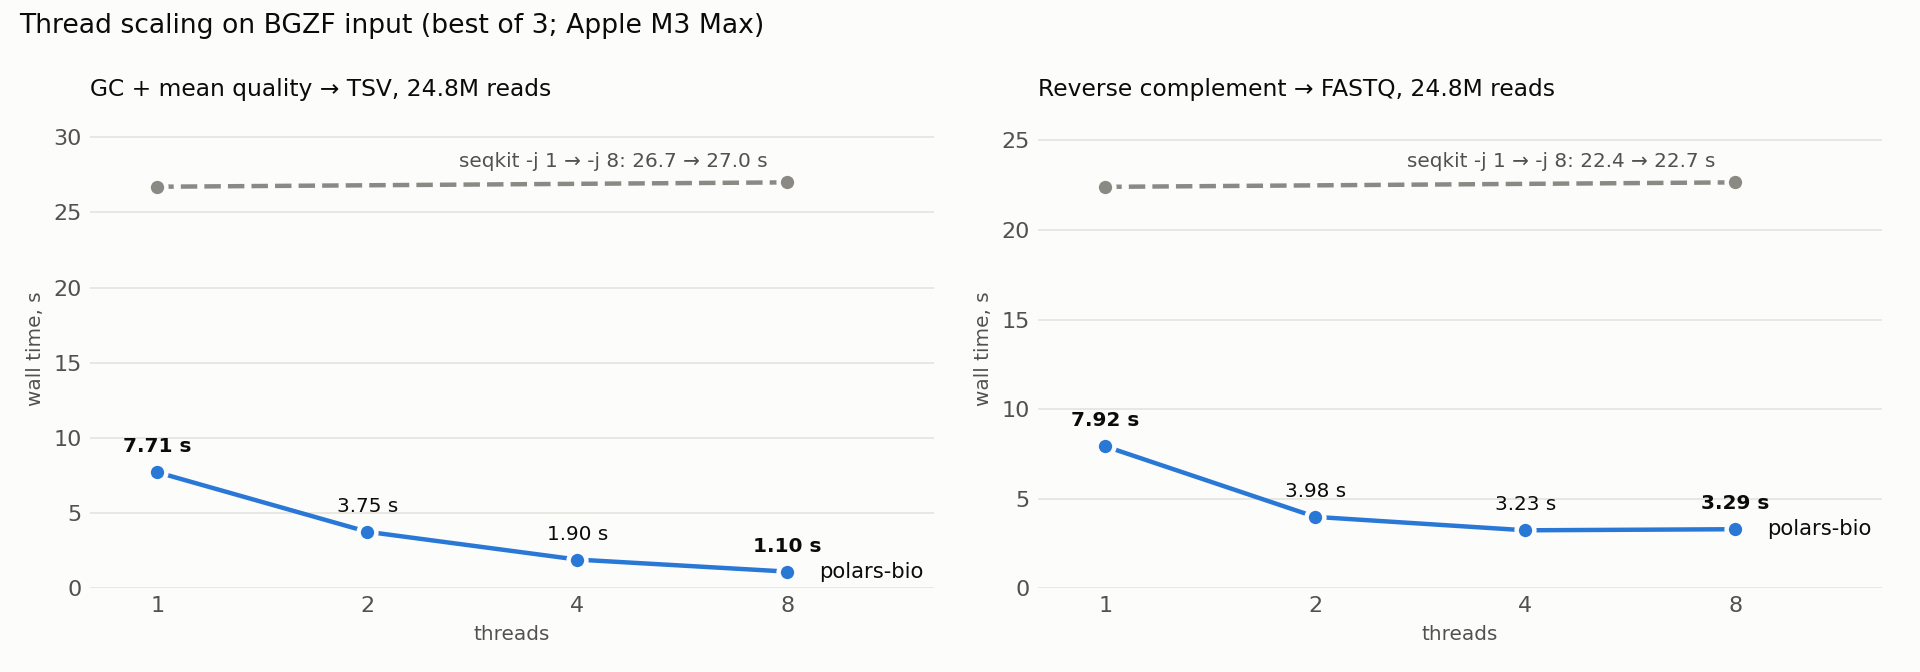
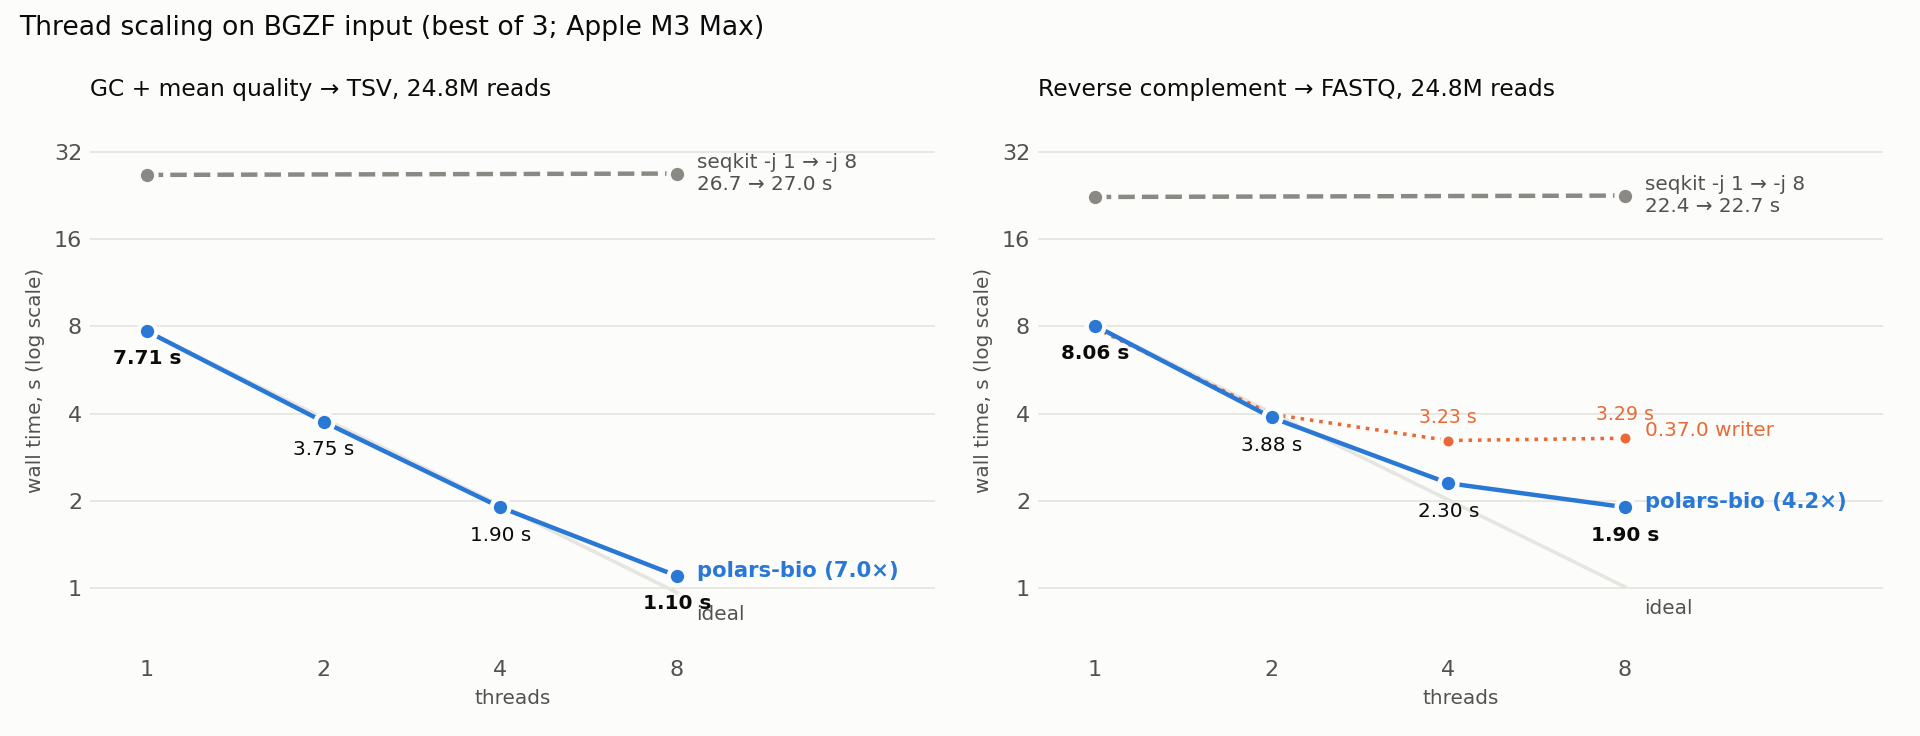
docs(blog): re-measure reverse complement and translation with the #276 writer
Reverse complement → FASTQ now scales 3.5–4.8× on 4.25M+ reads (24.8M reads:
3.29 s → 1.90 s at 8 threads). Updates the 1/2/4/8 table, the one-thread
polars-bio cells, CPU and memory ranges, and redraws the scaling figure on
log axes with an ideal line and the 0.37.0 writer for comparison.

diff --git a/docs/blog/posts/release-0.38.0-sequence-operations.md b/docs/blog/posts/release-0.38.0-sequence-operations.md
@@ -14,8 +14,9 @@ categories:
 polars-bio 0.38.0 adds a `seq` namespace to Polars expressions: reverse
 complement, GC content, translation, mean quality and more, running as native
 Polars plugins. At one thread they are **2.1–3.6× faster than seqkit** on
-FASTQ and 4.2–4.6× faster on translation. At 8 threads on BGZF input, GC
-content and mean quality run **24× faster than seqkit**. All of them match
+FASTQ and 4.3–4.8× faster on translation. At 8 threads on BGZF input, GC
+content and mean quality run **24× faster than seqkit**, and reverse complement
+12× faster. All of them match
 seqkit and Biopython on golden test corpora. The release also
 moves to DataFusion 55.2, makes plain-gzip FASTQ reads about 2× faster, and builds
 the PyPI wheels with fat link-time optimisation: **30% smaller and up to 14% faster**.
@@ -128,7 +129,12 @@ Biopython runs on the three smaller FASTQ files only.
 
 The machine was an Apple M3 Max (16 cores, 64 GB) running macOS 15.7, with
 seqkit 2.14.0, seqtk 1.5, seqfu 1.30.3, Biopython 1.88 and Polars 2.1.0, and a
-fat-LTO build of polars-bio master at the 0.38.0 feature freeze. It wasn't
+fat-LTO build of polars-bio master at the 0.38.0 feature freeze. polars-bio's
+reverse complement and translation runs use the same build plus the faster
+FASTQ and FASTA writer from
+[datafusion-bio-formats#276](https://github.com/biodatageeks/datafusion-bio-formats/pull/276),
+described under [Multiple threads](#multiple-threads); GC + quality writes
+through Polars' own `sink_csv`, which that change doesn't touch. It wasn't
 otherwise idle (3–4.5 of 16 cores busy with background work), but seqkit's
 repeated runs agreed within a few percent.
 
@@ -140,14 +146,14 @@ repeated runs agreed within a few percent.
 
 | Reads | Input | polars-bio | seqkit | seqtk | seqfu | Biopython |
 |---|---|---|---|---|---|---|
-| 0.72M | BGZF | **0.21 / 0.4 / 188** | 0.53 / 0.5 / 138 | 0.63 / 0.6 / 2 | 1.46 / 1.7 / 20 | 1.37 / 1.4 / 50 |
-| | gzip | **0.22 / 0.5 / 166** | 0.47 / 0.5 / 75 | 0.61 / 0.6 / 2 | 1.57 / 1.6 / 14 | 1.31 / 1.3 / 44 |
-| 4.25M | BGZF | **1.65 / 3.1 / 186** | 5.10 / 5.1 / 162 | 4.79 / 4.8 / 2 | 9.12 / 11.5 / 20 | 9.58 / 9.6 / 51 |
-| | gzip | **1.86 / 3.2 / 169** | 4.74 / 4.7 / 75 | 4.87 / 4.8 / 2 | 10.62 / 10.6 / 14 | 9.34 / 9.3 / 46 |
-| 24.8M | BGZF | **7.92 / 12.9 / 251** | 21.97 / 21.9 / 161 | 21.29 / 21.2 / 2 | 47.42 / 57.4 / 20 | 48.28 / 48.0 / 53 |
-| | gzip | **8.84 / 13.7 / 175** | 20.71 / 20.7 / 75 | 21.35 / 21.2 / 2 | 55.41 / 55.0 / 14 | 46.00 / 45.7 / 48 |
-| 64.3M | BGZF | **20.19 / 36.5 / 308** | 58.08 / 56.9 / 162 | 59.35 / 58.2 / 2 | 126.54 / 151.1 / 20 | — |
-| | gzip | **22.97 / 39.0 / 311** | 55.61 / 54.9 / 75 | 59.09 / 57.9 / 2 | 149.40 / 146.9 / 14 | — |
+| 0.72M | BGZF | **0.21 / 0.3 / 176** | 0.53 / 0.5 / 138 | 0.63 / 0.6 / 2 | 1.46 / 1.7 / 20 | 1.37 / 1.4 / 50 |
+| | gzip | **0.22 / 0.4 / 173** | 0.47 / 0.5 / 75 | 0.61 / 0.6 / 2 | 1.57 / 1.6 / 14 | 1.31 / 1.3 / 44 |
+| 4.25M | BGZF | **1.69 / 2.5 / 208** | 5.10 / 5.1 / 162 | 4.79 / 4.8 / 2 | 9.12 / 11.5 / 20 | 9.58 / 9.6 / 51 |
+| | gzip | **1.92 / 2.7 / 179** | 4.74 / 4.7 / 75 | 4.87 / 4.8 / 2 | 10.62 / 10.6 / 14 | 9.34 / 9.3 / 46 |
+| 24.8M | BGZF | **8.06 / 11.5 / 259** | 21.97 / 21.9 / 161 | 21.29 / 21.2 / 2 | 47.42 / 57.4 / 20 | 48.28 / 48.0 / 53 |
+| | gzip | **9.09 / 12.4 / 230** | 20.71 / 20.7 / 75 | 21.35 / 21.2 / 2 | 55.41 / 55.0 / 14 | 46.00 / 45.7 / 48 |
+| 64.3M | BGZF | **19.72 / 30.4 / 300** | 58.08 / 56.9 / 162 | 59.35 / 58.2 / 2 | 126.54 / 151.1 / 20 | — |
+| | gzip | **22.30 / 33.1 / 277** | 55.61 / 54.9 / 75 | 59.09 / 57.9 / 2 | 149.40 / 146.9 / 14 | — |
 
 **GC % + mean quality → TSV** (wall s / CPU s / peak MB):
 
@@ -166,24 +172,24 @@ repeated runs agreed within a few percent.
 
 | Input | polars-bio | seqkit | Biopython |
 |---|---|---|---|
-| BGZF | **0.76 / 1.3 / 336** | 3.52 / 3.5 / 56 | 21.83 / 21.8 / 55 |
-| gzip | **0.81 / 1.3 / 331** | 3.37 / 3.3 / 57 | 21.49 / 21.4 / 50 |
+| BGZF | **0.73 / 1.1 / 362** | 3.52 / 3.5 / 56 | 21.83 / 21.8 / 55 |
+| gzip | **0.78 / 1.2 / 360** | 3.37 / 3.3 / 57 | 21.49 / 21.4 / 50 |
 
 **Wall time.** polars-bio is the fastest tool in every case: 2.1–2.9× faster
 than the next tool on reverse complement, 2.9–3.6× on GC + quality, and
-4.2–4.6× faster than seqkit on translation.
+4.3–4.8× faster than seqkit on translation.
 
-**CPU time.** polars-bio's "one thread" uses 1.6–1.9 cores: the reader decodes
+**CPU time.** polars-bio's "one thread" uses 1.4–1.9 cores: the reader decodes
 the next batch while Polars processes the current one. Counted by CPU time, it
-still uses 35–70% of seqkit's on the 4.25M-read and larger files, and is about
-even with seqkit only on reverse complement of the smallest file.
+still uses 45–60% of seqkit's on the 4.25M-read and larger files, 31–35% on
+translation, and 56–76% on the smallest file.
 
-**Memory is the trade-off.** polars-bio peaks at 140–310 MB on FASTQ and about
-335 MB on translation, against 53–162 MB for seqkit, 44–55 MB for Biopython,
+**Memory is the trade-off.** polars-bio peaks at 140–300 MB on FASTQ and about
+360 MB on translation, against 53–162 MB for seqkit, 44–55 MB for Biopython,
 14–20 MB for seqfu and 2 MB for seqtk, which streams one record at a time.
 polars-bio's figure includes the Python interpreter with Polars, PyArrow and
 DataFusion loaded. It grows slowly with the input (on reverse complement from
-about 190 MB at 0.72M reads to 310 MB at 64.3M, a 90-fold larger file) because
+about 175 MB at 0.72M reads to 300 MB at 64.3M, a 90-fold larger file) because
 the data is processed in batches rather than loaded whole.
 
 ### Multiple threads
@@ -207,11 +213,11 @@ the last column):
 | | 4.25M | 1.60 | 0.78 | 0.40 | **0.24** | 6.6× | 323 |
 | | 24.8M | 7.71 | 3.75 | 1.90 | **1.10** | 7.0× | 397 |
 | | 64.3M | 18.75 | 8.99 | 4.62 | **2.98** | 6.3× | 445 |
-| Reverse complement → FASTQ | 0.72M | 0.21 | 0.18 | 0.17 | 0.18 | 1.2× | 575 |
-| | 4.25M | 1.65 | 1.07 | 1.05 | 1.07 | 1.5× | 1311 |
-| | 24.8M | 7.92 | 3.98 | 3.23 | 3.29 | 2.4× | 1466 |
-| | 64.3M | 20.19 | 10.03 | 10.08 | 10.23 | 2.0× | 1930 |
-| Translation → FASTA | Ensembl CDS | 0.76 | 0.78 | 0.80 | 0.80 | 1.0× | 749 |
+| Reverse complement → FASTQ | 0.72M | 0.21 | 0.11 | 0.08 | **0.08** | 2.8× | 538 |
+| | 4.25M | 1.69 | 0.82 | 0.42 | **0.35** | 4.8× | 1299 |
+| | 24.8M | 8.06 | 3.88 | 2.30 | **1.90** | 4.2× | 1421 |
+| | 64.3M | 19.72 | 9.95 | 5.45 | **5.68** | 3.5× | 1926 |
+| Translation → FASTA | Ensembl CDS | 0.73 | 0.74 | 0.75 | 0.76 | 1.0× | 802 |
 
 **seqkit wall time in seconds, `-j 1` → `-j 8`:**
 
@@ -228,17 +234,23 @@ and Polars all run in parallel, and Polars' own `sink_csv` writes the result.
 At 8 threads polars-bio processes 24.8M reads in 1.10 s, against 27.0 s for
 seqkit, and 64.3M reads in 2.98 s.
 
-**Reverse complement stops at about 2×.** Reading and transforming scale the
-same way. Without the write, reverse complement of 24.8M reads takes 1.02 s
-at 8 threads. But `pb.sink_fastq` wrote the output on one thread, through an
-8 KiB buffer and a per-read record object, and that single writer topped out at
-about 3.3 s. The fix,
-[datafusion-bio-formats#276](https://github.com/biodatageeks/datafusion-bio-formats/pull/276),
-formats each batch straight from Arrow and writes it through a 4 MiB buffer,
-with byte-identical output. In an A/B test of otherwise identical builds, it
-takes reverse complement of 24.8M reads at 8 threads from 3.40 s to 1.34 s,
-so it scales 6.3× instead of 2.5×. Peak memory at 8 threads stays at about
-1.2–1.5 GB with or without the fix (reading alone peaks at about 250 MB). It is
+**Reverse complement now scales 3.5–4.8× on 4.25M reads and up.** In 0.37.0 it stopped at about
+2× (3.29 s on 24.8M reads and 10.23 s on 64.3M at 8 threads, the dotted line
+in the figure). Reading and transforming scaled: without the write, reverse
+complement of 24.8M reads took 1.02 s at 8 threads. But `pb.sink_fastq` wrote
+the output on one thread, through an 8 KiB buffer and a record object per read,
+and that writer topped out at about 3.3 s. In 0.38.0 the writer
+([datafusion-bio-formats#276](https://github.com/biodatageeks/datafusion-bio-formats/pull/276))
+formats each Arrow batch straight into a 4 MiB buffer, with byte-identical
+output, and uses 9–19% less CPU time than 0.37.0's writer even at one thread.
+
+Writing is still done on one thread, and beyond 4 threads it is the limit
+again: the 24.8M-read output is 5.17 GB, and just writing that many bytes to
+this machine's SSD takes 0.85–0.97 s. Outside the benchmark harness the best
+8-thread run took 1.31 s, and repeated runs vary between 1.3 and 1.9 s
+depending on how much of the previous run's output macOS is still flushing to
+disk. On 64.3M reads, 8 threads are no faster than 4. Peak memory at 8 threads
+is 1.3–1.9 GB on 4.25M reads and up (reading alone peaks at about 250 MB). It is
 held in the handoff from Polars to the writer, which is the next thing to fix.
 
 **Translation doesn't scale yet.** The Ensembl CDS file is read as one stream
